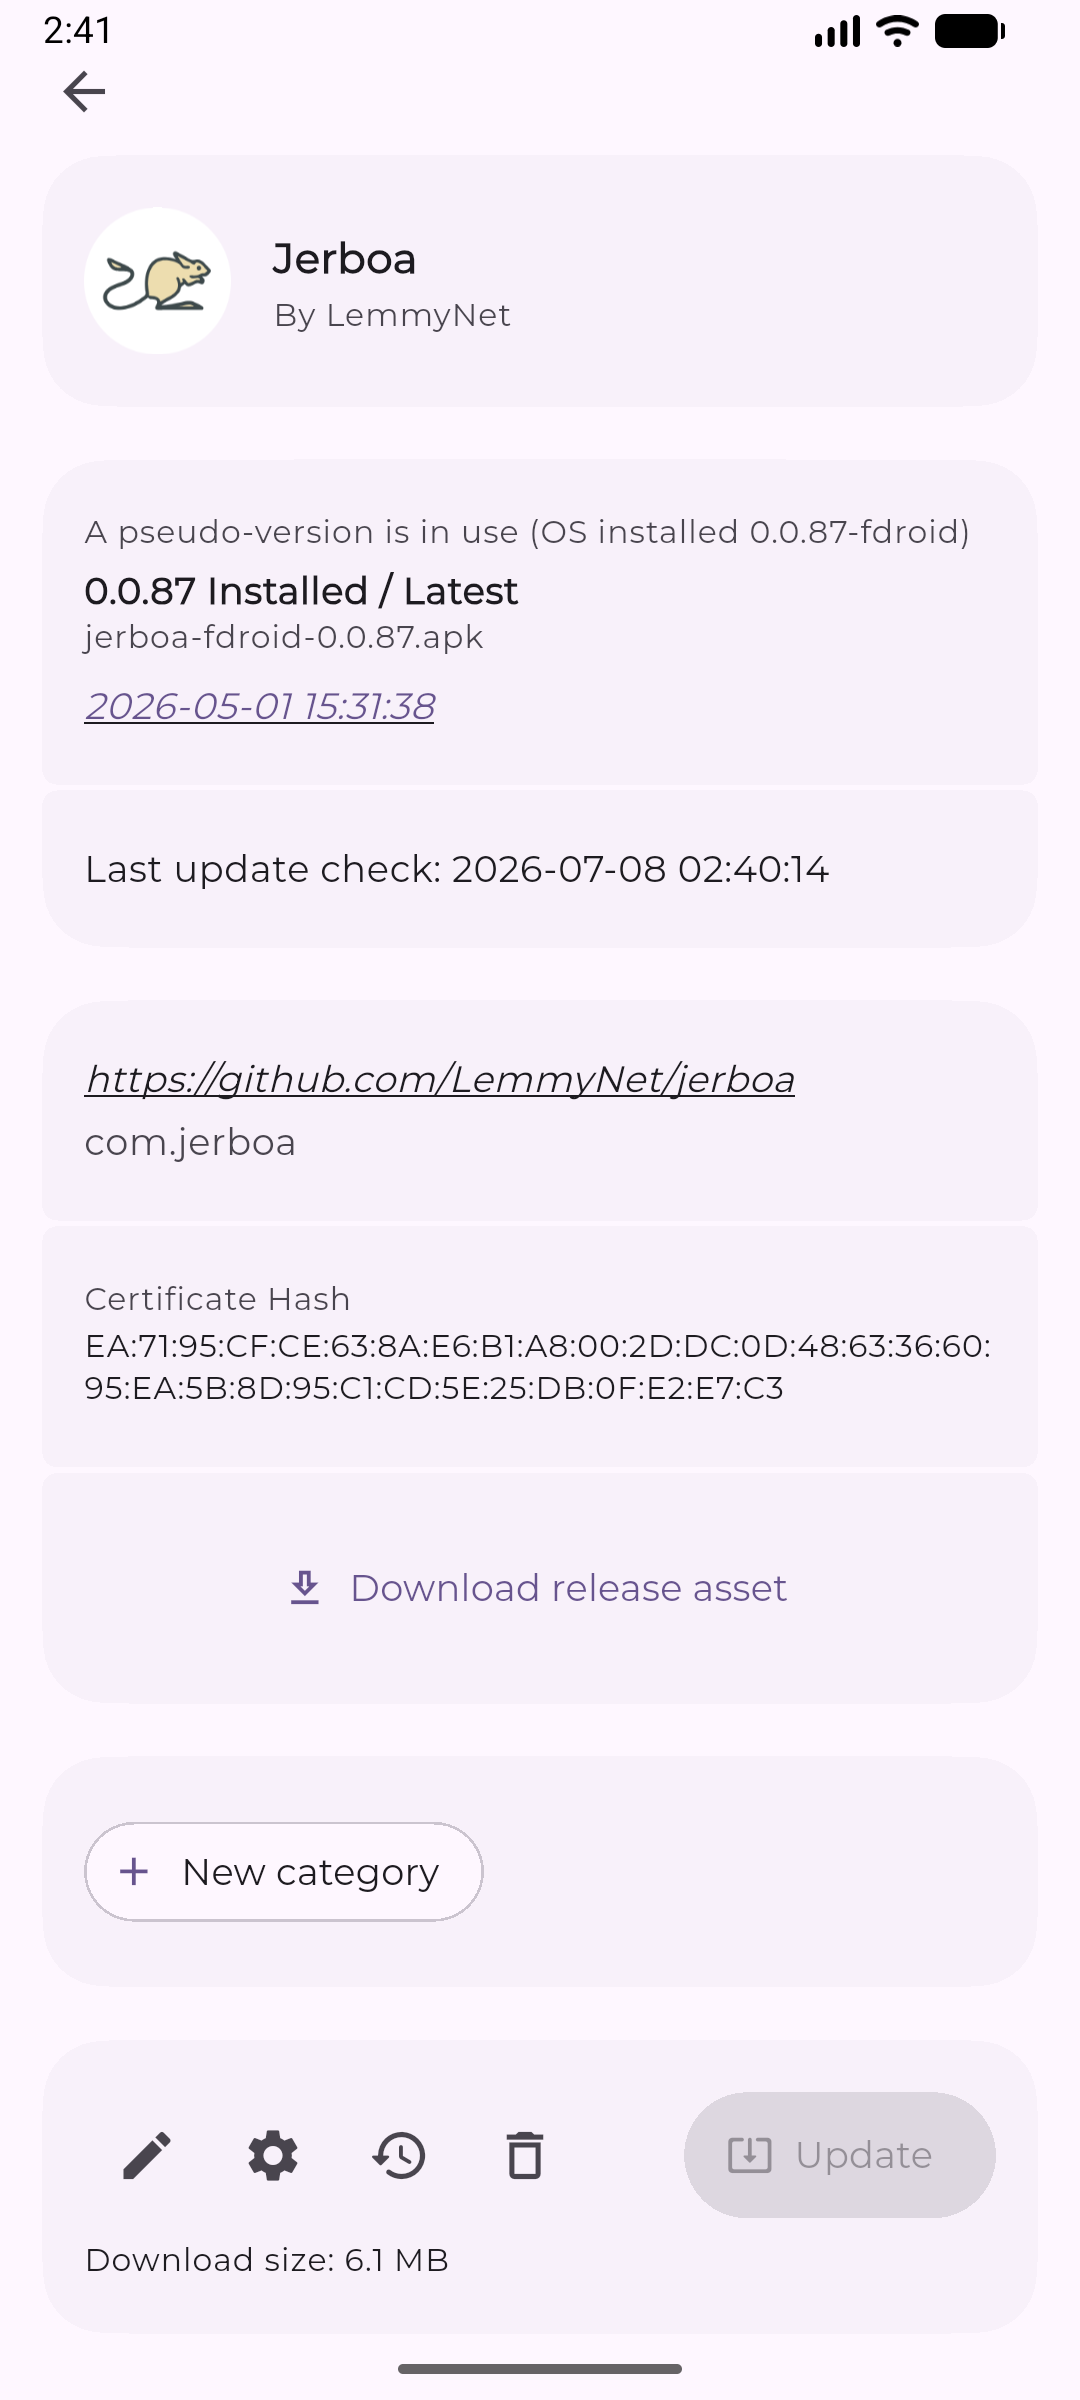
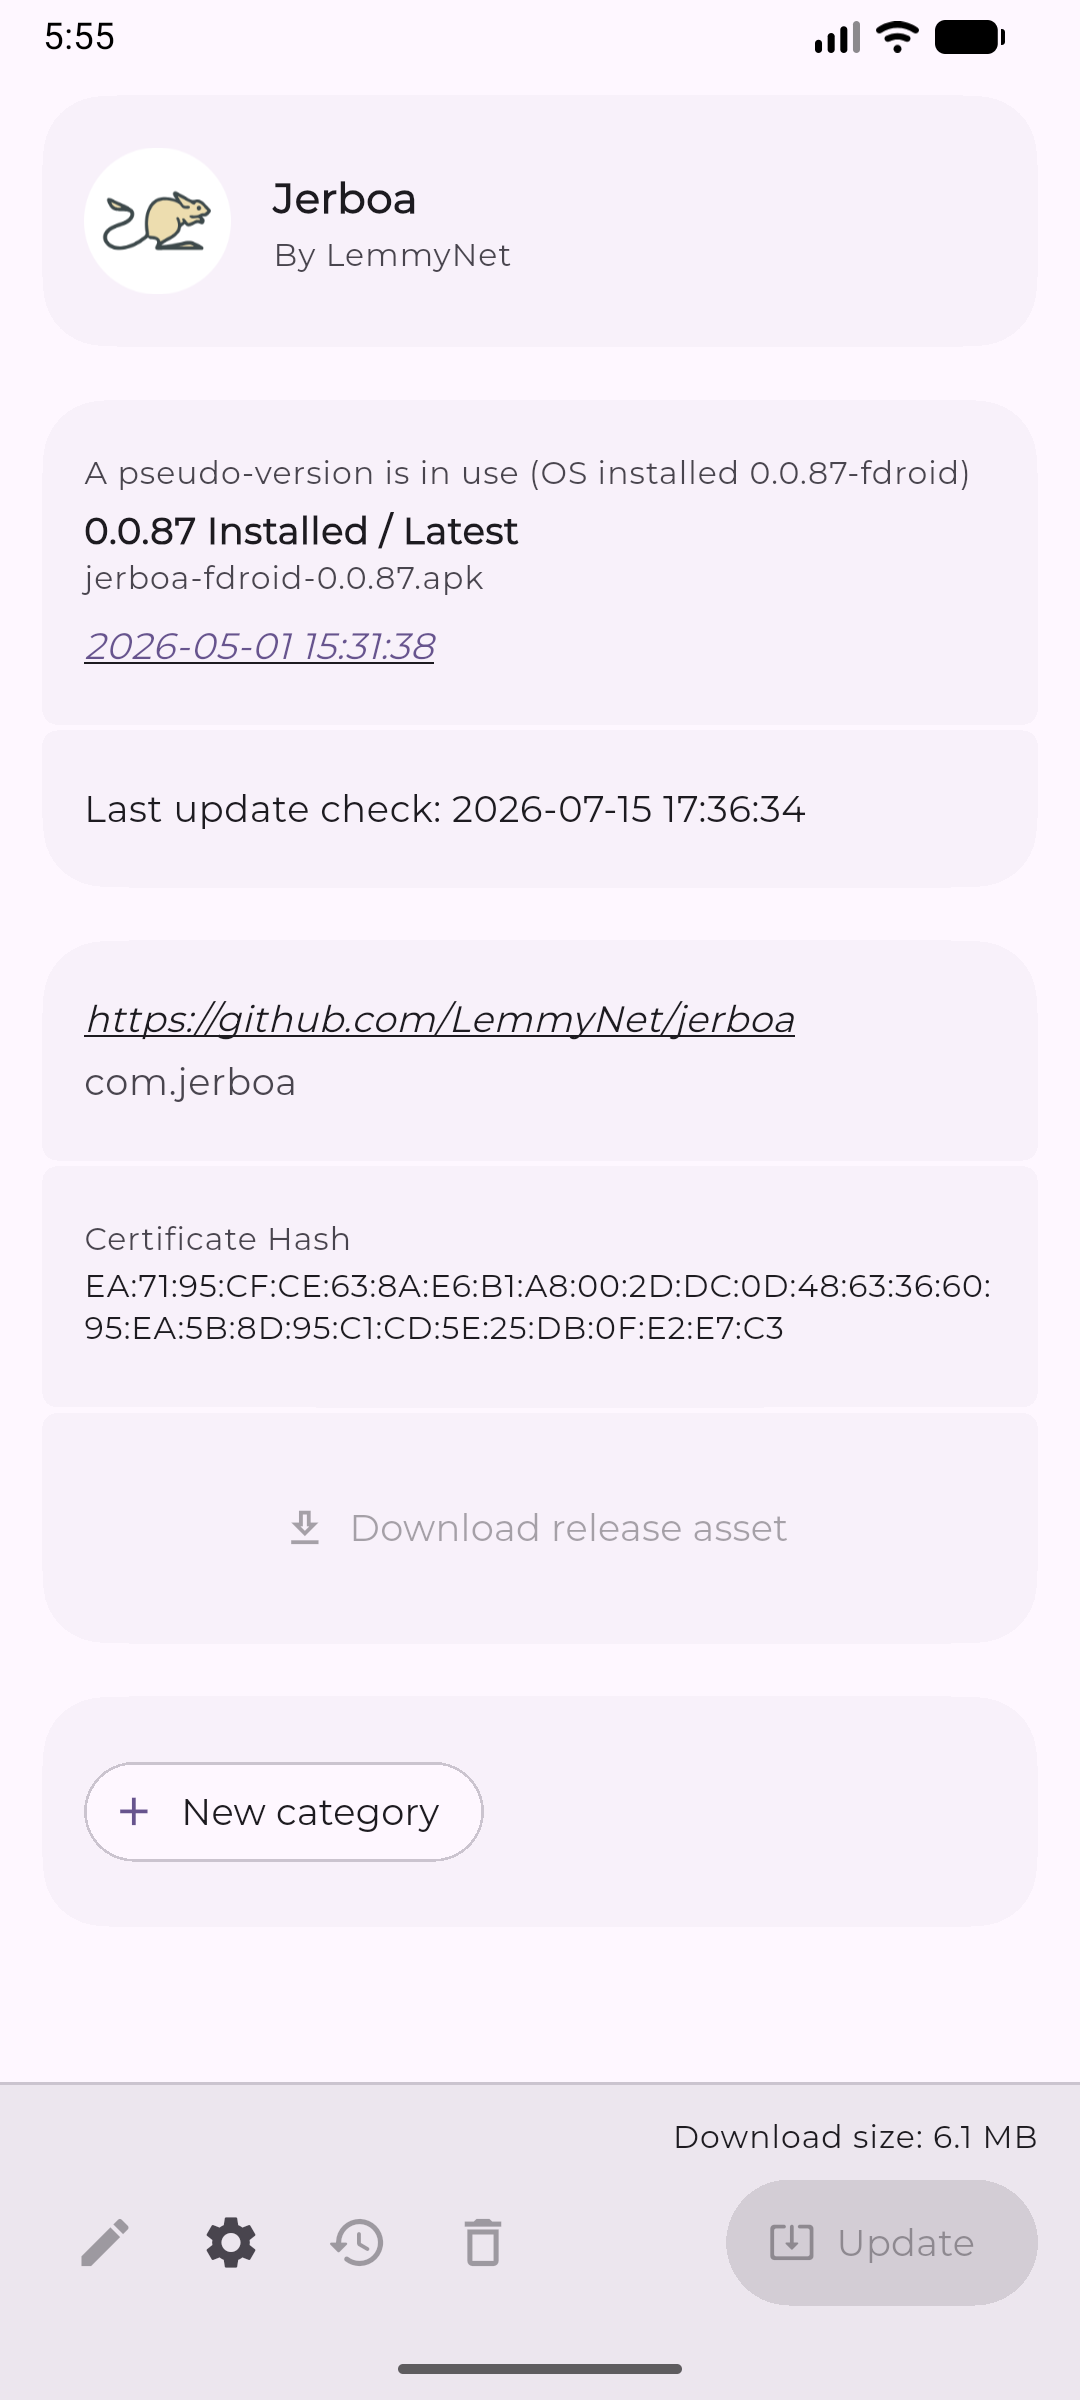
Tweaks
- Add install/update selected apps button to multi-select actions menu that reuses existing obtain dialog logic.
- Remove back buttons from additional options, import URL list, and
  app logs pages. Keep close button in two-pane layout only.
- Reduce top padding on app detail page
- Update screenshots

diff --git a/lib/pages/apps.dart b/lib/pages/apps.dart
@@ -157,123 +157,113 @@ class AppsPageState extends State<AppsPage> {
         ? null
         : () {
             settingsProvider.heavyImpact();
-            final List<GeneratedFormItem> formItems = [];
-            if (existingUpdateIdsAllOrSelected.isNotEmpty) {
-              formItems.add(
-                GeneratedFormSwitch(
-                  'updates',
-                  label: tr(
-                    'updateX',
-                    args: [
-                      plural(
-                        'apps',
-                        existingUpdateIdsAllOrSelected.length,
-                      ).toLowerCase(),
-                    ],
-                  ),
-                  value: true,
-                ),
-              );
-            }
-            if (newInstallIdsAllOrSelected.isNotEmpty) {
-              formItems.add(
-                GeneratedFormSwitch(
-                  'installs',
-                  label: tr(
-                    'installX',
-                    args: [
-                      plural(
-                        'apps',
-                        newInstallIdsAllOrSelected.length,
-                      ).toLowerCase(),
-                    ],
-                  ),
-                  value: existingUpdateIdsAllOrSelected.isEmpty,
-                ),
-              );
-            }
-            if (trackOnlyUpdateIdsAllOrSelected.isNotEmpty) {
-              formItems.add(
-                GeneratedFormSwitch(
-                  'trackonlies',
-                  label: tr(
-                    'markXTrackOnlyAsUpdated',
-                    args: [
-                      plural('apps', trackOnlyUpdateIdsAllOrSelected.length),
-                    ],
-                  ),
-                  value:
-                      existingUpdateIdsAllOrSelected.isEmpty &&
-                      newInstallIdsAllOrSelected.isEmpty,
-                ),
-              );
-            }
-            showDialog<Map<String, dynamic>?>(
-              context: context,
-              builder: (BuildContext ctx) {
-                final totalApps =
-                    existingUpdateIdsAllOrSelected.length +
-                    newInstallIdsAllOrSelected.length +
-                    trackOnlyUpdateIdsAllOrSelected.length;
-                return GeneratedFormModal(
-                  title: tr(
-                    'changeX',
-                    args: [plural('apps', totalApps).toLowerCase()],
-                  ),
-                  items: formItems.map((e) => [e]).toList(),
-                  initValid: true,
-                );
-              },
-            ).then((values) async {
-              if (values != null) {
-                if (values.isEmpty) {
-                  values = getDefaultValuesFromFormItems([formItems]);
-                }
-                final bool shouldInstallUpdates = values['updates'] == true;
-                final bool shouldInstallNew = values['installs'] == true;
-                final bool shouldMarkTrackOnlies =
-                    values['trackonlies'] == true;
-                final List<String> toInstall = [];
-                if (shouldInstallUpdates) {
-                  toInstall.addAll(existingUpdateIdsAllOrSelected);
-                }
-                if (shouldInstallNew) {
-                  toInstall.addAll(newInstallIdsAllOrSelected);
-                }
-                if (shouldMarkTrackOnlies) {
-                  toInstall.addAll(trackOnlyUpdateIdsAllOrSelected);
-                }
-                if (!context.mounted) return;
-                unawaited(
-                  appsProvider
-                      .downloadAndInstallLatestApps(
-                        toInstall,
-                        appNavigatorKey.currentContext,
-                      )
-                      .then((value) {
-                        if (value.isNotEmpty) {
-                          if (context.mounted) {
-                            if (shouldInstallUpdates) {
-                              showMessage(tr('appsUpdated'), context);
-                            }
-                            final np = context.read<NotificationsProvider>();
-                            np.cancel(updateNotificationId);
-                            np.cancel(
-                              SilentUpdateAttemptNotification(
-                                [],
-                                id: value[0].hashCode,
-                              ).id,
-                            );
-                          }
-                        }
-                      })
-                      .catchError((e) {
-                        if (context.mounted) showError(e, context);
-                      }),
-                );
-              }
-            });
+            _showObtainDialog(
+              context,
+              existingUpdateIdsAllOrSelected,
+              newInstallIdsAllOrSelected,
+              trackOnlyUpdateIdsAllOrSelected,
+            );
           };
+  }
+
+  void _showObtainDialog(
+    BuildContext context,
+    List<String> existingUpdateIds,
+    List<String> newInstallIds,
+    List<String> trackOnlyUpdateIds,
+  ) {
+    final List<GeneratedFormItem> formItems = [];
+    if (existingUpdateIds.isNotEmpty) {
+      formItems.add(
+        GeneratedFormSwitch(
+          'updates',
+          label: tr(
+            'updateX',
+            args: [plural('apps', existingUpdateIds.length).toLowerCase()],
+          ),
+          value: true,
+        ),
+      );
+    }
+    if (newInstallIds.isNotEmpty) {
+      formItems.add(
+        GeneratedFormSwitch(
+          'installs',
+          label: tr(
+            'installX',
+            args: [plural('apps', newInstallIds.length).toLowerCase()],
+          ),
+          value: existingUpdateIds.isEmpty,
+        ),
+      );
+    }
+    if (trackOnlyUpdateIds.isNotEmpty) {
+      formItems.add(
+        GeneratedFormSwitch(
+          'trackonlies',
+          label: tr(
+            'markXTrackOnlyAsUpdated',
+            args: [plural('apps', trackOnlyUpdateIds.length)],
+          ),
+          value: existingUpdateIds.isEmpty && newInstallIds.isEmpty,
+        ),
+      );
+    }
+    showDialog<Map<String, dynamic>?>(
+      context: context,
+      builder: (BuildContext ctx) {
+        final totalApps =
+            existingUpdateIds.length +
+            newInstallIds.length +
+            trackOnlyUpdateIds.length;
+        return GeneratedFormModal(
+          title: tr('changeX', args: [plural('apps', totalApps).toLowerCase()]),
+          items: formItems.map((e) => [e]).toList(),
+          initValid: true,
+        );
+      },
+    ).then((values) async {
+      if (values != null) {
+        if (values.isEmpty) {
+          values = getDefaultValuesFromFormItems([formItems]);
+        }
+        final bool shouldInstallUpdates = values['updates'] == true;
+        final bool shouldInstallNew = values['installs'] == true;
+        final bool shouldMarkTrackOnlies = values['trackonlies'] == true;
+        final List<String> toInstall = [];
+        if (shouldInstallUpdates) toInstall.addAll(existingUpdateIds);
+        if (shouldInstallNew) toInstall.addAll(newInstallIds);
+        if (shouldMarkTrackOnlies) toInstall.addAll(trackOnlyUpdateIds);
+        if (!context.mounted) return;
+        unawaited(
+          appsProvider
+              .downloadAndInstallLatestApps(
+                toInstall,
+                appNavigatorKey.currentContext,
+              )
+              .then((value) {
+                if (value.isNotEmpty) {
+                  if (context.mounted) {
+                    if (shouldInstallUpdates) {
+                      showMessage(tr('appsUpdated'), context);
+                    }
+                    final np = context.read<NotificationsProvider>();
+                    np.cancel(updateNotificationId);
+                    np.cancel(
+                      SilentUpdateAttemptNotification(
+                        [],
+                        id: value[0].hashCode,
+                      ).id,
+                    );
+                  }
+                }
+              })
+              .catchError((e) {
+                if (context.mounted) showError(e, context);
+              }),
+        );
+      }
+    });
   }
 
   Future<void> showFilterDialog(BuildContext context) async {
@@ -518,6 +508,38 @@ class AppsPageState extends State<AppsPage> {
   void showMoreOptionsBottomSheet(BuildContext context, Set<App> selectedApps) {
     final isPinned = selectedApps.where((e) => e.pinned).isNotEmpty;
     final hasSelection = selectedAppIds.isNotEmpty;
+
+    final existingUpdateIds = selectedApps
+        .where(
+          (a) =>
+              a.installedVersion != null &&
+              a.installedVersion != a.latestVersion &&
+              a.settings.getBool('trackOnly') != true,
+        )
+        .map((a) => a.id)
+        .toList();
+    final newInstallIds = selectedApps
+        .where(
+          (a) =>
+              a.installedVersion == null &&
+              a.settings.getBool('trackOnly') != true,
+        )
+        .map((a) => a.id)
+        .toList();
+    final trackOnlyUpdateIds = selectedApps
+        .where(
+          (a) =>
+              a.installedVersion != null &&
+              a.installedVersion != a.latestVersion &&
+              a.settings.getBool('trackOnly') == true,
+        )
+        .map((a) => a.id)
+        .toList();
+    final hasObtainActions =
+        existingUpdateIds.isNotEmpty ||
+        newInstallIds.isNotEmpty ||
+        trackOnlyUpdateIds.isNotEmpty;
+
     showModalBottomSheet(
       context: context,
       showDragHandle: true,
@@ -562,6 +584,20 @@ class AppsPageState extends State<AppsPage> {
                   label: isPinned ? tr('unpinFromTop') : tr('pinToTop'),
                   onTap: () => pinSelectedApps(selectedApps),
                 ),
+                if (hasObtainActions && !appsProvider.areDownloadsRunning())
+                  optionTile(
+                    icon: Icons.download_rounded,
+                    label: tr('installUpdateSelectedApps'),
+                    onTap: () {
+                      settingsProvider.heavyImpact();
+                      _showObtainDialog(
+                        context,
+                        existingUpdateIds,
+                        newInstallIds,
+                        trackOnlyUpdateIds,
+                      );
+                    },
+                  ),
                 optionTile(
                   icon: Icons.share_outlined,
                   label: tr('shareSelectedAppURLs'),
@@ -1036,7 +1072,10 @@ class AppsPageState extends State<AppsPage> {
     final existingUpdates = appsProvider
         .findAppIdsWithPendingUpdates(installedOnly: true)
         .toSet();
-    final listedApps = getFilteredAndSortedApps(List<AppInMemory>.from(apps), existingUpdates);
+    final listedApps = getFilteredAndSortedApps(
+      List<AppInMemory>.from(apps),
+      existingUpdates,
+    );
 
     final listedAppIdSet2 = listedApps.map((e) => e.app.id).toSet();
 
@@ -1123,19 +1162,22 @@ class AppsPageState extends State<AppsPage> {
                 physics: const AlwaysScrollableScrollPhysics(),
                 controller: scrollController,
                 slivers: <Widget>[
-                  CustomAppBar(title: tr('appsString'), actions: [
-                    IconButton(
-                      onPressed: () {
-                        Navigator.of(context).push(
-                          MaterialPageRoute(
-                            builder: (_) => const SettingsPage(),
-                          ),
-                        );
-                      },
-                      icon: const Icon(Icons.settings_outlined),
-                      tooltip: tr('settings'),
-                    ),
-                  ]),
+                  CustomAppBar(
+                    title: tr('appsString'),
+                    actions: [
+                      IconButton(
+                        onPressed: () {
+                          Navigator.of(context).push(
+                            MaterialPageRoute(
+                              builder: (_) => const SettingsPage(),
+                            ),
+                          );
+                        },
+                        icon: const Icon(Icons.settings_outlined),
+                        tooltip: tr('settings'),
+                      ),
+                    ],
+                  ),
                   if (appsProvider.apps.isNotEmpty)
                     _getSearchBarSliver(context, settingsProvider, listedApps),
                   if (appsProvider.apps.isNotEmpty)

diff --git a/lib/pages/app.dart b/lib/pages/app.dart
@@ -316,6 +316,7 @@ class _AppPageState extends State<AppPage> {
               slivers: [
                 SliverAppBar.large(
                   pinned: true,
+                  automaticallyImplyLeading: false,
                   title: Text(
                     tr('additionalOptsFor', args: [app?.name ?? tr('app')]),
                   ),
@@ -324,7 +325,7 @@ class _AppPageState extends State<AppPage> {
                   child: Padding(
                     padding: EdgeInsets.fromLTRB(
                       16,
-                      MediaQuery.of(context).padding.top,
+                      0,
                       16,
                       MediaQuery.of(context).padding.bottom,
                     ),
@@ -521,12 +522,13 @@ class _AppPageState extends State<AppPage> {
   }
 
   AppBar _appScreenAppBar() => AppBar(
-    leading: IconButton(
-      icon: Icon(
-        widget.onClose != null ? Icons.close_rounded : Icons.arrow_back,
-      ),
-      onPressed: _closePage,
-    ),
+    automaticallyImplyLeading: false,
+    leading: widget.onClose != null
+        ? IconButton(
+            icon: const Icon(Icons.close_rounded),
+            onPressed: _closePage,
+          )
+        : null,
   );
 
   Widget _getPrimaryButton(

diff --git a/lib/pages/import_export.dart b/lib/pages/import_export.dart
@@ -86,7 +86,7 @@ class _ImportFromURLListPageState extends State<ImportFromURLListPage> {
           final controller = context.watch<ImportFromURLListController>();
           return Scaffold(
             backgroundColor: Theme.of(context).colorScheme.surface,
-            appBar: AppBar(title: Text(tr('importFromURLList'))),
+            appBar: AppBar(automaticallyImplyLeading: false, title: Text(tr('importFromURLList'))),
             body: CustomScrollView(
               slivers: [
                 SliverToBoxAdapter(

diff --git a/lib/pages/settings.dart b/lib/pages/settings.dart
@@ -1268,7 +1268,7 @@ class _LogsPageState extends State<LogsPage> {
             child: CustomScrollView(
               controller: _scrollController,
               slivers: [
-                SliverAppBar.large(pinned: true, title: Text(tr('appLogs'))),
+                SliverAppBar.large(pinned: true, automaticallyImplyLeading: false, title: Text(tr('appLogs'))),
                 if (_loading)
                   const SliverFillRemaining(
                     hasScrollBody: false,
